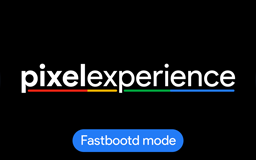
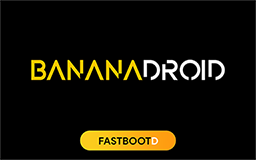
recovery: Adapt to BananaDroid

Changed region(s): [[0.0, 0.0, 1.0, 1.0], [0.0625, 0.3438, 0.9375, 0.5938]]

diff --git a/recovery_ui/screen_ui.cpp b/recovery_ui/screen_ui.cpp
@@ -564,21 +564,21 @@ void ScreenRecoveryUI::draw_foreground_locked() {
   }
 }
 
-/* pixel blue: #227BF6 */
+/* pixel yellow: #FBA700 */
 void ScreenRecoveryUI::SetColor(UIElement e) const {
   switch (e) {
     case UIElement::INFO:
-        gr_color(0x22, 0x7b, 0xf6, 255);
+        gr_color(0xfb, 0xc0, 0x2d, 255);
       break;
     case UIElement::HEADER:
-        gr_color(0x22, 0x7b, 0xf6, 255);
+        gr_color(0xfb, 0xc0, 0x2d, 255);
       break;
     case UIElement::MENU:
       gr_color(0xd8, 0xd8, 0xd8, 255);
       break;
     case UIElement::MENU_SEL_BG:
     case UIElement::SCROLLBAR:
-        gr_color(0x22, 0x7b, 0xf6, 255);
+        gr_color(0xfb, 0xc0, 0x2d, 255);
       break;
     case UIElement::MENU_SEL_BG_ACTIVE:
       gr_color(0, 156, 100, 255);
